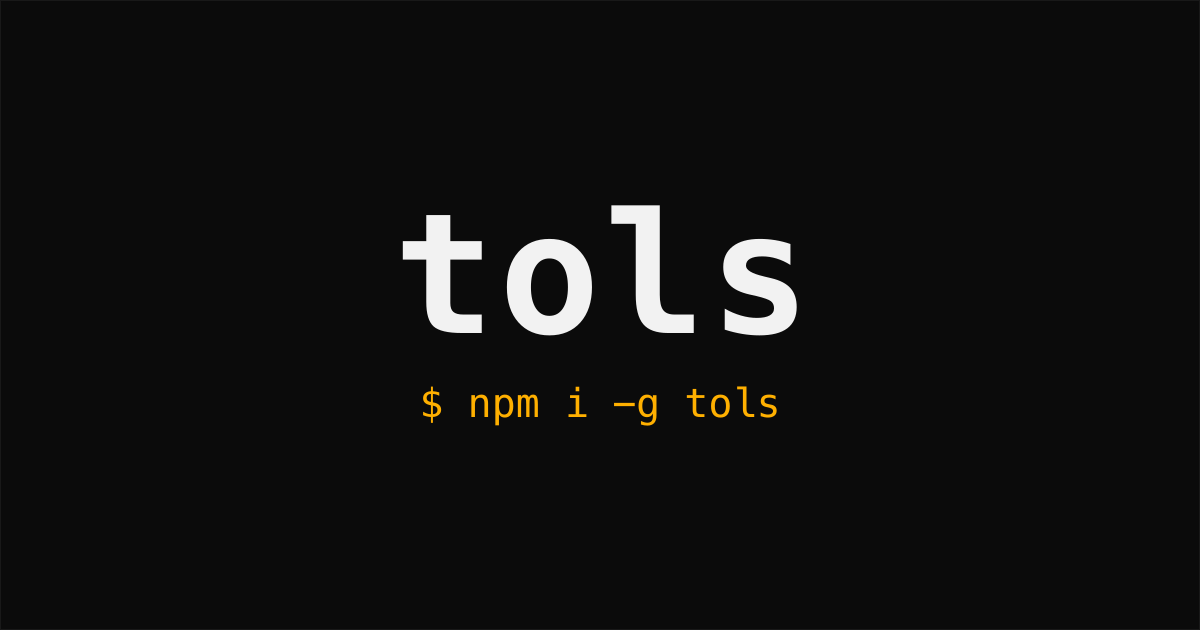
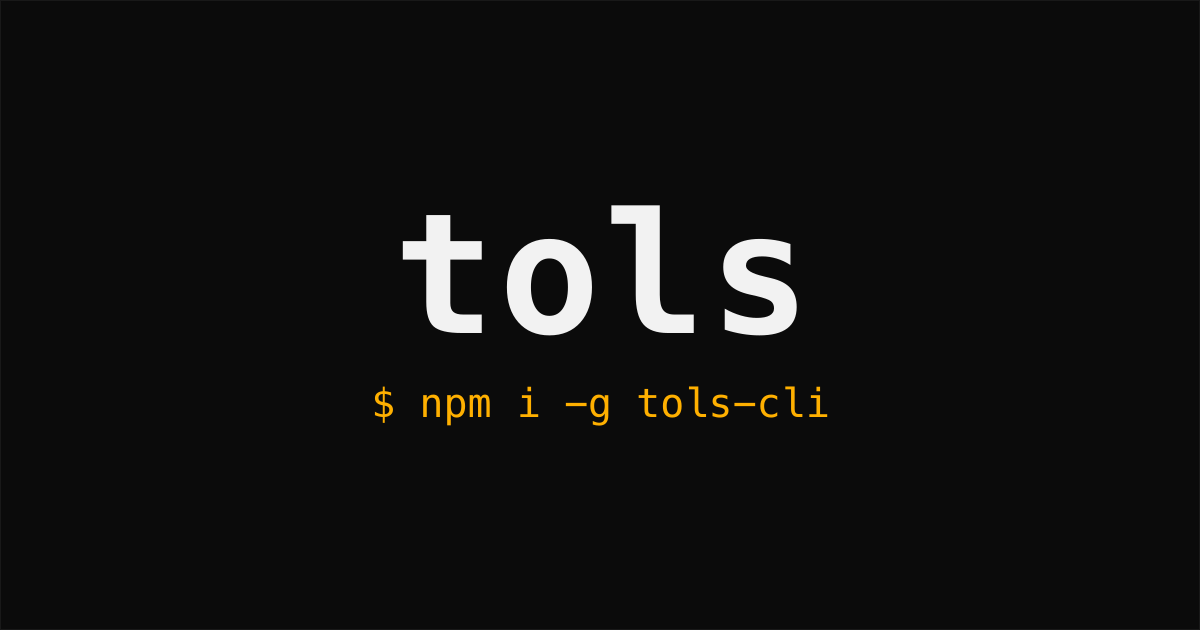
fix(web): point install command at tols-cli in hero and og image

Changed region(s): [[0.3083, 0.6032, 0.7092, 0.6937]]

diff --git a/apps/web/tests/TerminalDemo.test.js b/apps/web/tests/TerminalDemo.test.js
@@ -23,12 +23,12 @@ describe('TerminalDemo', () => {
   it('renders the install line and copies it verbatim', async () => {
     const { getByText } = render(TerminalDemo)
 
-    expect(getByText('npm i -g tols')).toBeInTheDocument()
+    expect(getByText('npm i -g tols-cli')).toBeInTheDocument()
 
     await fireEvent.click(getByText('copy'))
 
     await waitFor(() => {
-      expect(navigator.clipboard.writeText).toHaveBeenCalledWith('npm i -g tols')
+      expect(navigator.clipboard.writeText).toHaveBeenCalledWith('npm i -g tols-cli')
     })
     // The clipboard call alone does not prove the user saw anything happen.
     await waitFor(() => {

diff --git a/apps/web/src/lib/components/TerminalDemo.svelte b/apps/web/src/lib/components/TerminalDemo.svelte
@@ -7,7 +7,7 @@
   import { copyToClipboard } from '$lib/utils/clipboard.js'
   import { onDestroy } from 'svelte'
 
-  const INSTALL = 'npm i -g tols'
+  const INSTALL = 'npm i -g tols-cli'
   let copied = false
   /** @type {ReturnType<typeof setTimeout> | undefined} */
   let resetTimer
